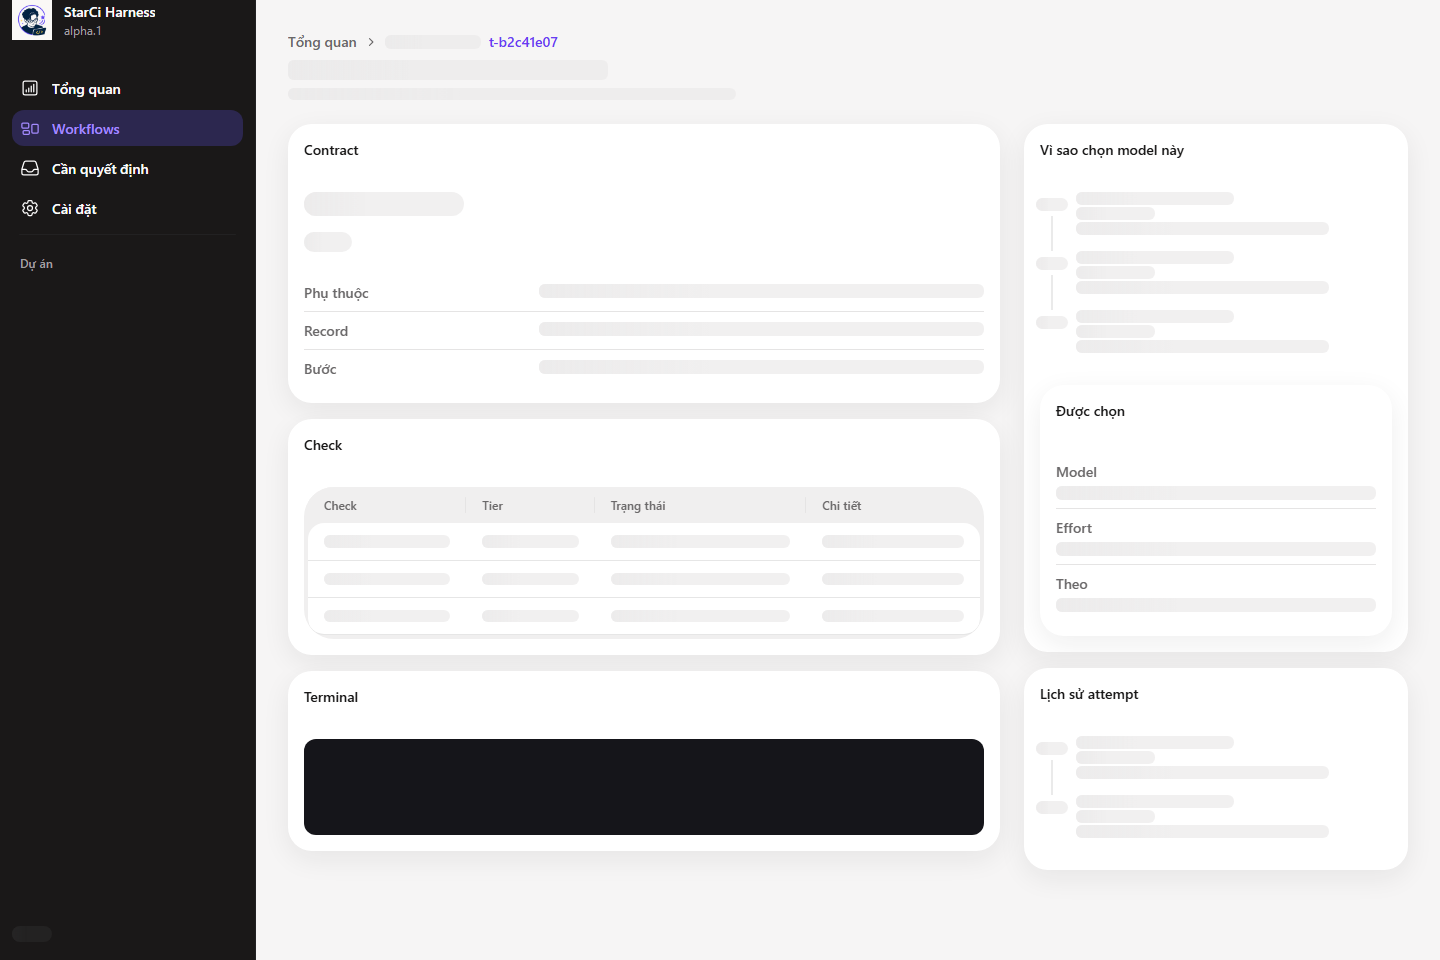
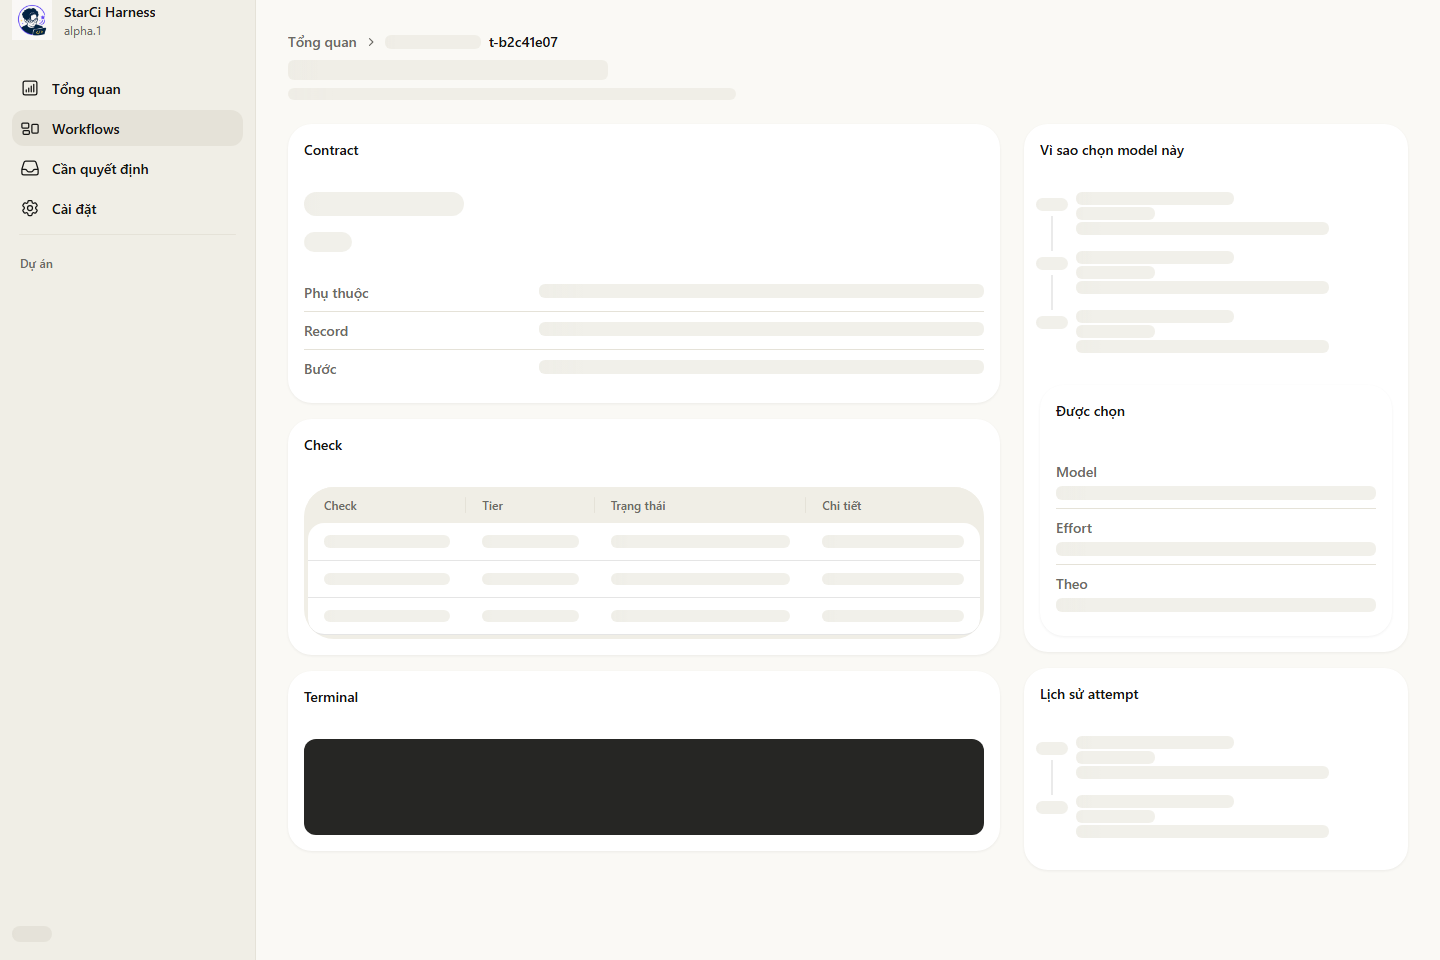
app: the Claude-app look through the brand layer only
Places found and changed: app/src/modules/brand/brand.css (new, the only file with
colour values), app/src/app/styles.css (imports it fourth, after the core Grammar),
WorkspaceNavBlock (the sidebar root follows the page theme instead of dark),
docs/screens (reshot).

- Core tokens overridden, unlayered, light and dark: ivory canvas #FAF9F5, slate ink
  #141413, secondary #6B6A64, hairline #E5E2D8, slate primary fill with ivory text,
  terminal #262624; no purple left (core's #7547FF accent is replaced).
- The sidebar's own core root takes #F0EEE6 with its current item on #E5E2D8 and a clay
  badge; clay #C96442 reaches status dots, progress and quota bars and graph nodes
  (running tint #F5ECE6) through a scoped --accent, and link hover.

diff --git a/app/src/modules/brand/brand.css b/app/src/modules/brand/brand.css
@@ -1,0 +1,93 @@
+/*
+ * The harness app's brand (FE-CSS-3): the only file with colour values. It sets only tokens the core Grammar declares,
+ * unlayered so they win over the family's own layer, with a light and a dark value each. The look is the Claude app's:
+ * ivory canvas, slate ink, a light warm sidebar, slate primary actions, and clay as a sparing accent only.
+ *
+ *   ivory #FAF9F5 · slate #141413 · secondary text #6B6A64 · sidebar #F0EEE6 · hairline and active item #E5E2D8
+ *   clay #C96442 (attention badge, running and progress, link hover) · running tint #F5ECE6 · terminal #262624
+ *
+ * The core accent is the primary action's fill, so it is slate; the parts that carry "running" or "progress" (a status
+ * dot, a progress or quota bar, a graph node) take clay through the same `--accent` token, scoped to those parts.
+ */
+
+/* ------------------------------------------------------------------ light */
+
+[data-grammar-family="core"] {
+    --starci-core-canvas: #faf9f5;
+    --starci-core-surface: #ffffff;
+    --starci-core-surface-secondary: #f0eee6;
+    --starci-core-surface-tertiary: #e5e2d8;
+    --starci-core-foreground: #141413;
+    --starci-core-muted: #6b6a64;
+    --starci-core-border: #e5e2d8;
+    --starci-core-separator: #e5e2d8;
+    --starci-core-accent: #141413;
+    --starci-core-accent-foreground: #faf9f5;
+    --starci-core-accent-text: #141413;
+    --starci-core-accent-soft: #f5ece6;
+    --starci-core-focus: #c96442;
+    --starci-core-surface-shadow: 0 1px 3px rgb(20 20 19 / 0.06);
+    --starci-core-terminal-background: #262624;
+    --starci-core-terminal-foreground: #faf9f5;
+    --starci-core-terminal-title-foreground: #a6a39a;
+}
+
+/* The sidebar is its own core root inside the page's: light warm, its current item on the hairline tone, its badge clay. */
+[data-grammar-family="core"] [data-grammar-family="core"] {
+    --starci-core-canvas: #f0eee6;
+    --starci-core-surface: #f0eee6;
+    --starci-core-surface-secondary: #e5e2d8;
+    --starci-core-accent: #c96442;
+    --starci-core-accent-foreground: #faf9f5;
+    --starci-core-accent-soft: #e5e2d8;
+    --starci-core-accent-text: #141413;
+}
+
+/* Clay marks work in motion: a running state, a progress or quota bar, a running graph node. */
+[data-grammar-family="core"] :is([data-component="StatusDot"], [data-component="Progress"], [data-component="Meter"], [data-component="FlowGraph"]) {
+    --accent: #c96442;
+    --accent-soft: #f5ece6;
+}
+
+/* A link rests in ink and turns clay under the pointer. */
+[data-grammar-family="core"] :is(a, [data-component="Link"])[data-hovered="true"] {
+    --accent: #c96442;
+}
+
+/* ------------------------------------------------------------------ dark */
+
+[data-grammar-family="core"][data-grammar-theme="dark"],
+[data-grammar-family="core"][data-grammar-theme="dark"] [data-grammar-family="core"] {
+    --starci-core-canvas: #1f1e1d;
+    --starci-core-surface: #262624;
+    --starci-core-surface-secondary: #30302e;
+    --starci-core-surface-tertiary: #3a3936;
+    --starci-core-foreground: #faf9f5;
+    --starci-core-muted: #a6a39a;
+    --starci-core-border: #3a3936;
+    --starci-core-separator: #3a3936;
+    --starci-core-accent: #faf9f5;
+    --starci-core-accent-foreground: #141413;
+    --starci-core-accent-text: #faf9f5;
+    --starci-core-accent-soft: #3d2b23;
+    --starci-core-terminal-background: #1a1918;
+}
+
+@media (prefers-color-scheme: dark) {
+    [data-grammar-family="core"][data-grammar-theme="system"],
+    [data-grammar-family="core"][data-grammar-theme="system"] [data-grammar-family="core"] {
+        --starci-core-canvas: #1f1e1d;
+        --starci-core-surface: #262624;
+        --starci-core-surface-secondary: #30302e;
+        --starci-core-surface-tertiary: #3a3936;
+        --starci-core-foreground: #faf9f5;
+        --starci-core-muted: #a6a39a;
+        --starci-core-border: #3a3936;
+        --starci-core-separator: #3a3936;
+        --starci-core-accent: #faf9f5;
+        --starci-core-accent-foreground: #141413;
+        --starci-core-accent-text: #faf9f5;
+        --starci-core-accent-soft: #3d2b23;
+        --starci-core-terminal-background: #1a1918;
+    }
+}

diff --git a/app/src/components/blocks/WorkspaceNavBlock/component.tsx b/app/src/components/blocks/WorkspaceNavBlock/component.tsx
@@ -50,7 +50,7 @@ export interface WorkspaceNavBlockBaseProps {
 
 const STATUS_PLACEHOLDER = " "
 
-/** Pure half: the dark sidebar (logo, destinations, projects, the host footer). */
+/** Pure half: the light warm sidebar (logo, destinations, projects, the host footer). */
 export const WorkspaceNavBlockBase = (props: WorkspaceNavBlockBaseProps) => {
     const { labels, openDecisions } = props.props
     const groups: SidebarGroup[] = [
@@ -81,8 +81,8 @@ export const WorkspaceNavBlockBase = (props: WorkspaceNavBlockBaseProps) => {
         },
     ]
     return (
-        // The mockup's dark sidebar: a dark Grammar island inside the page's own theme.
-        <CoreGrammarRoot theme="dark" className="app-sidebar-island">
+        // The sidebar is its own Grammar root in the page's theme, so the brand can give it its light warm tokens.
+        <CoreGrammarRoot theme="system" className="app-sidebar-island">
             <Sidebar
                 label={labels.landmark}
                 presentation={props.props.presentation}

diff --git a/app/src/app/styles.css b/app/src/app/styles.css
@@ -1,6 +1,7 @@
 /*
- * HeroUI once, then exactly one Grammar family (core). Everything below the imports is layout: every colour, type,
- * radius and shadow comes from the Grammar, and every gap is one of the Grammar's spacing tokens:
+ * HeroUI once, then exactly one Grammar family (core), then the brand tokens (`modules/brand/brand.css`, the only file
+ * with colour values). Everything below the imports is layout: every colour, type, radius and shadow comes from the
+ * Grammar and the brand, and every gap is one of the Grammar's spacing tokens:
  *   --grammar-region-gap   between the page header and the page's sections, and between sections
  *   --grammar-section-gap  between the blocks inside one section, and between peer cards
  *   --grammar-row-gap      between a field and its neighbour inside a row
@@ -9,6 +10,7 @@
 @import "tailwindcss";
 @import "@heroui/styles";
 @import "@starci/grammar/core/styles.css";
+@import "../modules/brand/brand.css";
 
 @source "../../node_modules/@starci/grammar/dist";
 
